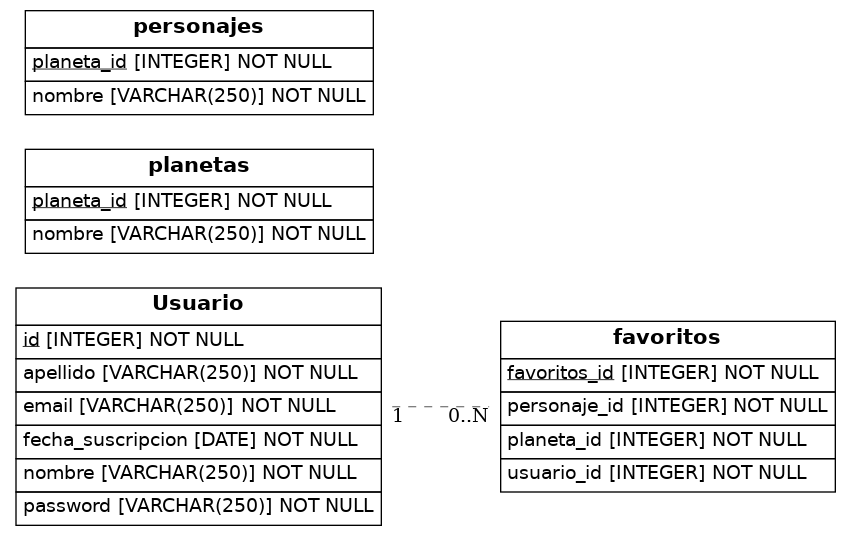
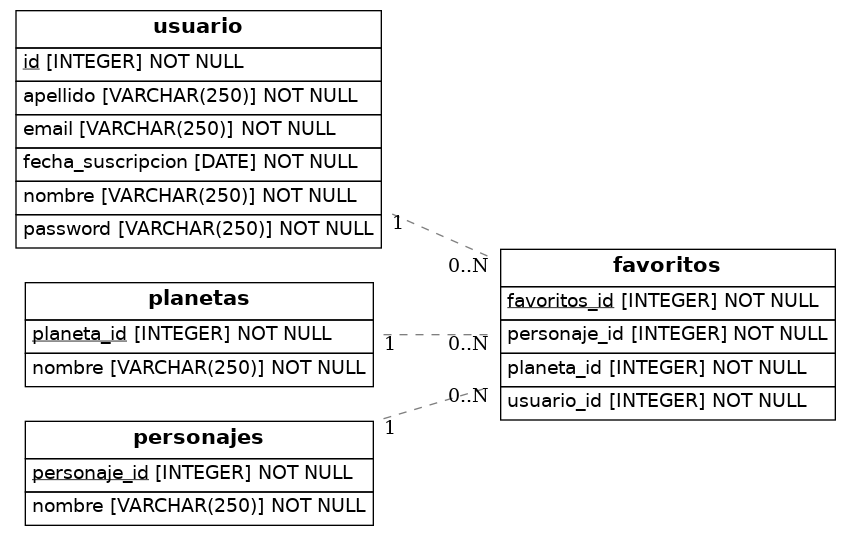
Modifico las relaciones entre las tablas

diff --git a/src/models.py b/src/models.py
@@ -5,42 +5,40 @@ from sqlalchemy.orm import relationship, declarative_base
 from sqlalchemy import create_engine
 from eralchemy2 import render_er
 
-
 Base = declarative_base()
 
-class Usuario (Base):
-    __tablename__ = 'Usuario'
-    # Here we define columns for the table person
-    # Notice that each column is also a normal Python instance attribute.
+class Usuario(Base):
+    __tablename__ = 'usuario'
     id = Column(Integer, primary_key=True)
     nombre = Column(String(250), nullable=False)
     apellido = Column(String(250), nullable=False)
     email = Column(String(250), nullable=False)
     password = Column(String(250), nullable=False)
     fecha_suscripcion = Column(Date, nullable=False)
+    favoritos = relationship('Favoritos', back_populates='usuario')
 
 class Favoritos(Base):
     __tablename__ = 'favoritos'
-    # Here we define columns for the table address.
-    # Notice that each column is also a normal Python instance attribute.
     favoritos_id = Column(Integer, primary_key=True)
-    usuario_id = Column(Integer, ForeignKey('Usuario.id'), nullable=False)
-    planeta_id = Column(Integer, ForeignKey('Planetas.planeta_id'), nullable=False)
-    personaje_id = Column(Integer, ForeignKey('Personajes.planeta_id'), nullable=False)
+    usuario_id = Column(Integer, ForeignKey('usuario.id'), nullable=False)
+    planeta_id = Column(Integer, ForeignKey('planetas.planeta_id'), nullable=False)
+    personaje_id = Column(Integer, ForeignKey('personajes.planeta_id'), nullable=False)
+    usuario = relationship('Usuario', back_populates='favoritos')
 
 class Planetas(Base):
     __tablename__ = 'planetas'
     planeta_id = Column(Integer, primary_key=True)
     nombre = Column(String(250), nullable=False)
+    favoritos = relationship('Favoritos', back_populates='planeta')
 
-class Personajes (Base):
+class Personajes(Base):
     __tablename__ = 'personajes'
-    planeta_id = Column(Integer, primary_key=True)
+    personaje_id = Column(Integer, primary_key=True)
     nombre = Column(String(250), nullable=False)
-
+    favoritos = relationship('Favoritos', back_populates='personaje')
 
     def to_dict(self):
         return {}
 
-## Draw from SQLAlchemy base
+# Draw from SQLAlchemy base
 render_er(Base, 'diagram.png')
